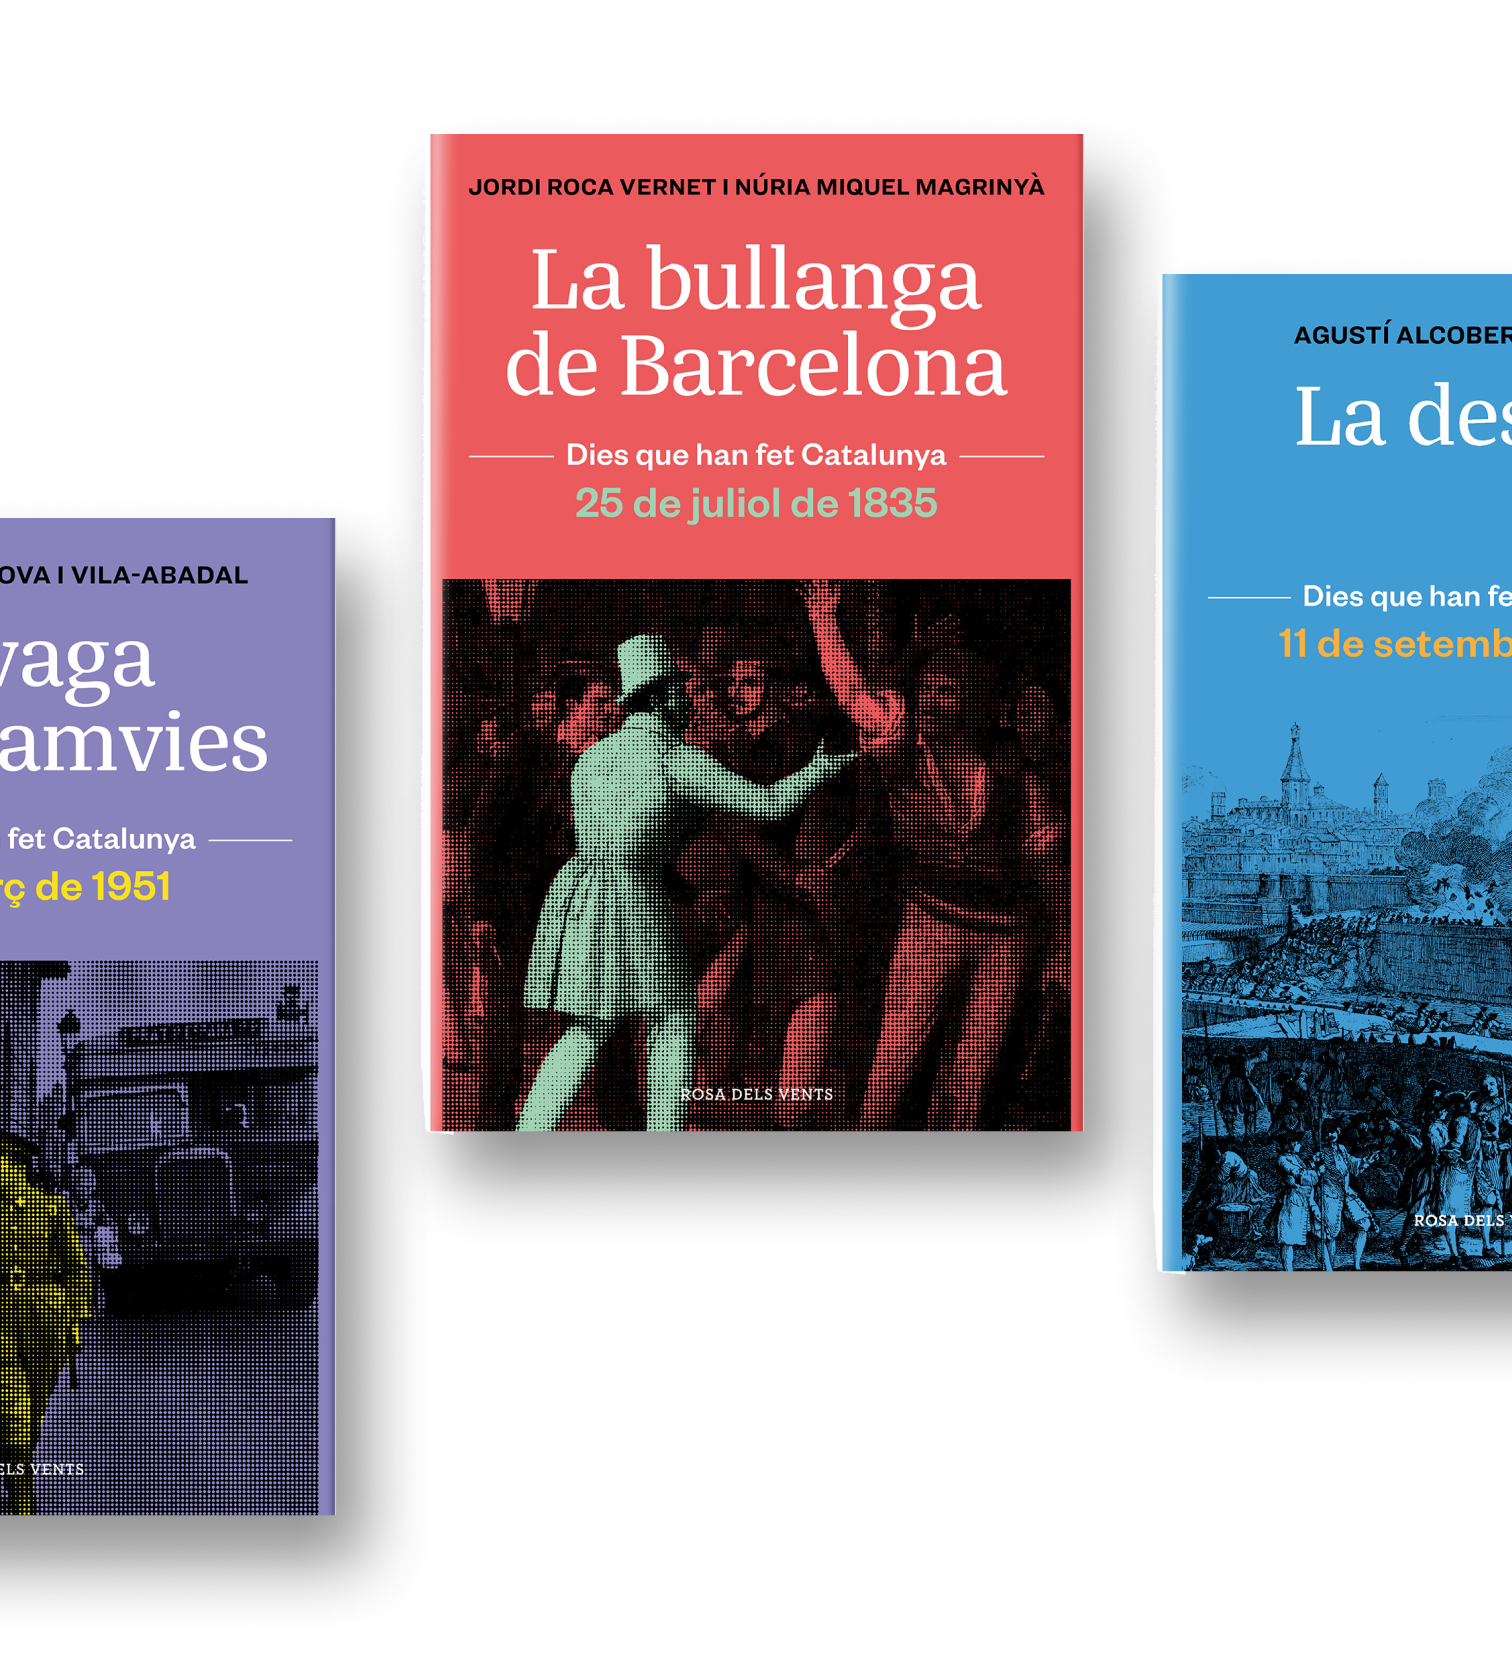
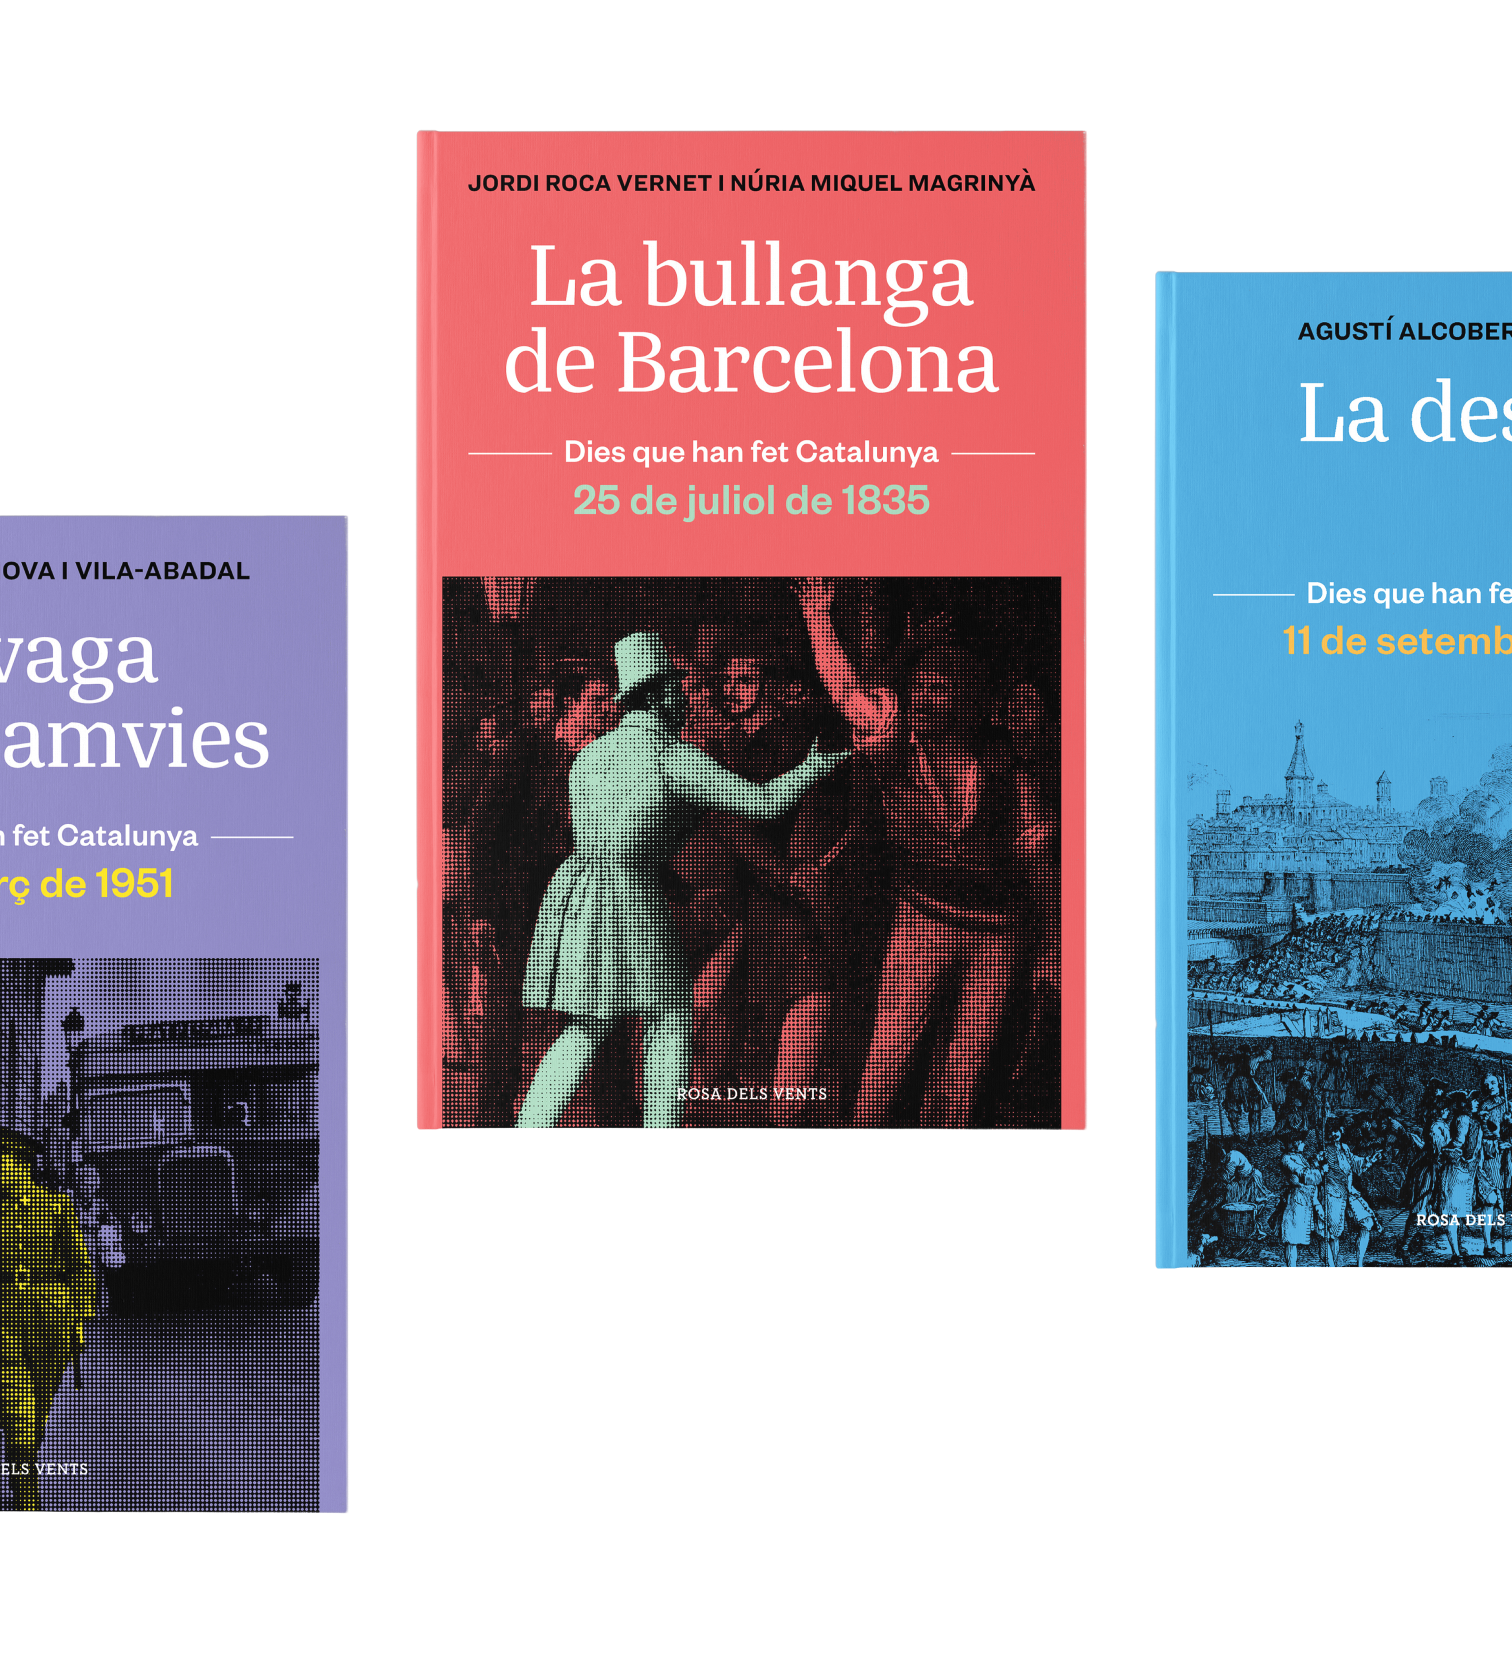
print_pg

diff --git a/print.html b/print.html
@@ -68,37 +68,41 @@
             </div>
         </section>
         <div class="section__img">
-            <div class="project__slide">
-                <img src="/assets/img/Travel_beyond-mobile-1.png" alt="mockup travel beyond mobile" class="shadow_img">
-                <img src="/assets/img/Travel_beyond-mobile-2.png" alt="mockup travel beyond mobile">
-                <img src="/assets/img/Travel_beyond-mobile-3.png" alt="mockup travel beyond mobile">
+            <div class="project__slide_print">
+                <img src="/assets/img/00_Print/Dies_03.png" alt="book cover" class="shadow_img">
+                <img src="/assets/img/00_Print/Dies_05.png" alt="book cover" class="shadow_img">
+                <img src="/assets/img/00_Print/Dies_02.png" alt="book cover" class="shadow_img">
+                <img src="/assets/img/00_Print/Dies_04_2.png" alt="book cover" class="shadow_img">
+                <img src="/assets/img/00_Print/Dies_01.png" alt="book cover" class="shadow_img">
+
             </div>
         </div>
         <div class="description_detail section__wrapper padding_projects">
             <p class="serif-h4-span process__print">dies que han fet catalunya</p>
-            <p class="sans-bodymedium-black"> una vez tuve claro el reto y el usuario al que nos dirigíamos, empece
-                haciendo un benchmark sobre la
-                competencia, no solo de otras agencias de viajes de lujo, sino también de otras empresas que tuvieran
-                relación con el espacio y experiencias interplanetarias. con este benchmark pude detectar que
-                normalmente
-                los negocios que buscan dirigirse a vender productos de lujo, lo hacen a través de colores oscuros
-                combinados con dorados o plateados, en cambio, plataformas destinadas a la divulgación del espacio, o
-                profesionales de la materia, usaban colores más claros y combinados con colores neutros, o oscuros
-                combinados con colores ácidos. también pude observar que las tipografías que se usan en productos de
-                lujo
-                suelen ser tipografías serif, y en webs o plataformas de divulgación espacial, se usan tanto serif como
-                sans.
-                con este pequeño estudio de mercado, me decidí por un diseño fresco, pensado para amantes del espacio,
-                no
-                solo para gente rica, pero sí con un nivel adquisitivo alto.
+            <p class="sans-bodymedium-black"> Dies que han fet Catalunya es una col.lección de 5 libros, por el momento,
+                publicada en Rosa dels Vents en el año 2021. El encargo era diseñar una col.lección de 5 títulos que
+                pretendían difundir días claves de la historia de cataluña de forma cercana y sencilla para lectores
+                interesados en historia. para este proyecto colaboré con Setanta, un estudio de diseño de Barcelona, y
+                elabore un briefing marcando los valores que buscaba transmitir; por un lado, eran muy importante las
+                imágenes, pues las fechas no eran muy reconocibles, pero teníamos fotografías muy impactantes de estos
+                momentos y queríamos que tuvieran un peso importante en cubierta, por otro lado era esencial hacer un
+                diseño fresco y con mucha personalidad, que destacara en la mesa de novedades y jerarquizar bien toda la
+                información que debía aparecer en cubierta (título, autor, nombre de la col.lección, fecha).
+
+            <div><br></div>
+            <p class="sans-bodymedium-black"> finalmente la resolución fue muy buena, conseguimos diseñar una
+                col.lección que permite continuidad, muy
+                reconocible y divulgativa, con colores frescos y con mucha personalidad, que se alejan de los colores
+                que suelen usarse para temas históricos, y que invitan al lector a querer coger el libro y empezar a
+                leer.</p>
             </p>
         </div>
         <div class="section__img">
             <div class="project__process">
-                <img class="project__img__01" src="/assets/img/Travel_beyond-proces-1.png"
-                    alt="wireframes Travel Beyond">
-                <img class="project__img__02" src="/assets/img/Travel_beyond-proces-2.png"
-                    alt="type scale + colors Travel Beyond">
+                <img class="project__img__01_cor" src="/assets/img/00_Print/Un_cor_senzill-tripa.png"
+                    alt="interior pages of Un cor senzill book">
+                <img class="project__img__02_cor" src="/assets/img/00_Print/Un_cor_senzill.png"
+                    alt="book cover of Un cor senzill">
             </div>
             <div class="description_detail section__wrapper padding_projects">
                 <p class="serif-h4-span process__print">un cor senzill</p>
@@ -123,20 +127,17 @@
                     solo para gente rica, pero sí con un nivel adquisitivo alto.
                 </p>
             </div>
-            <div class="section__img project__img">
-                <img src="/assets/img/Travel_beyond-desktop-1.png" alt="mockup travel beyond desktop">
-            </div>
             <section id="projects" class="projects">
                 <ul>
                     <li class="projects__item js-project next-project" data-project="travelbeyond">
-                        <a href="succulent.html">
+                        <a href="travel.html">
                             <h2 class="hover-underline-animation">next project <span
                                     class="sans-bodylarge-black">02</span>
                             </h2>
                         </a>
                     </li>
                     <li class="projects__item js-project" data-project="succulent">
-                        <a href="print.html">
+                        <a href="sharetime.html">
                             <h2 class="hover-underline-animation"><span class="sans-bodylarge-black">04</span> prev
                                 project
                             </h2>

diff --git a/assets/css/styles_projects.css b/assets/css/styles_projects.css
@@ -374,7 +374,8 @@ li {
 /* CONCRET PROJECT ////////////////////////////////// CONCRET PROJECT */
 
 .project__slide,
-.project__process {
+.project__process,
+.project__slide_print {
     display: flex;
     justify-content: space-evenly;
     margin-top: 6rem;
@@ -384,6 +385,10 @@ li {
 .project__slide img {
     width: clamp(150px, calc(33% - 4rem), 400px);
     left: 5rem;
+}
+
+.project__slide_print img {
+    width: clamp(150px, calc(20% - 1rem), 600px);
 }
 
 
@@ -404,6 +409,14 @@ img.project__img__01 {
 
 img.project__img__02 {
     width: clamp(406px, calc(58% - 4rem), 765px);
+}
+
+img.project__img__01_cor {
+    width: clamp(294px, calc(70% - 4rem), 954px);
+}
+
+img.project__img__02_cor {
+    width: clamp(406px, calc(30% - 4rem), 765px);
 }
 
 .description_detail {
@@ -736,10 +749,17 @@ footer * {
     }
 
     h3,
-    h4,
     h4>span,
     .serif-h4-span {
         font-size: 2.375rem;
+    }
+
+    h4 {
+        font-size: 2rem;
+    }
+
+    .serif-h3-span {
+        font-size: 3.125rem;
     }
 
     .serif-bodylarge {
@@ -914,6 +934,8 @@ footer * {
         z-index: -1;
     }
 
+    /* TEXT MOBILE //////////////////////////////////////////// TEXT MOBILE */
+
     .description_detail {
         column-count: 1;
     }
@@ -927,6 +949,8 @@ footer * {
     .description_detail {
         margin-top: 1.5rem;
     }
+
+    /* IMG SCROLL MOBILE ///////////////////////////////////// IMG SCROLL MOBILE */
 
     .project__slide {
         justify-content: flex-start;

diff --git a/assets/css/styles02.css b/assets/css/styles02.css
@@ -825,11 +825,12 @@ footer * {
         font-size: 4.375rem;
     }
 
-    h2 {
+    h2,
+    h3 {
         font-size: 3.125rem;
     }
 
-    h3,
+
     h4,
     h4>span,
     .serif-h4-span {
